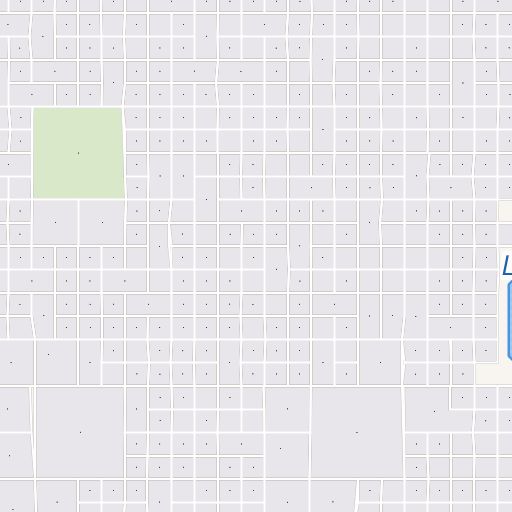
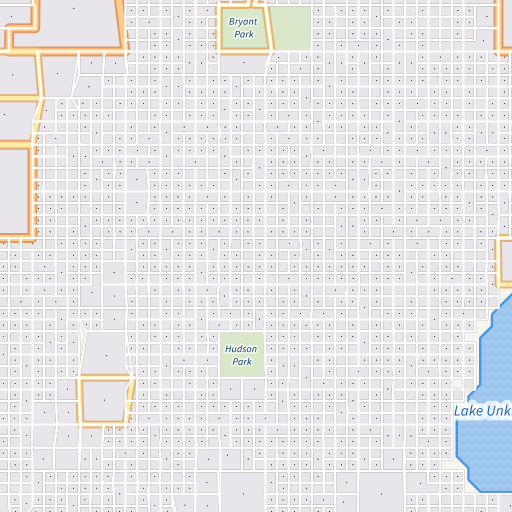
tweaking the map more

diff --git a/lib/default-opts.ts b/lib/default-opts.ts
@@ -102,15 +102,28 @@ const defaults: IGenerateCityOpts = {
                     park: true
                 },
                 'street-block-2137': {
-                    park: true
+                    park: true,
+                    parkName: 'Bryant Park'
                 },
                 'street-block-806': {
-                    park: true
+                    park: true,
+                    parkName: 'Hudson Park'
                 },
                 'street-block-4739': {
-                    park: true
+                    park: true,
+                    parkName: 'Lakefront Park'
                 },
                 'street-block-4740': {
+                    park: true
+                },
+                'street-block-1311': {
+                    park: true,
+                    parkName: 'Willowbrook Park'
+                },
+                'street-block-1934': {
+                    park: true,
+                },
+                'street-block-3955': {
                     park: true
                 },
             }
